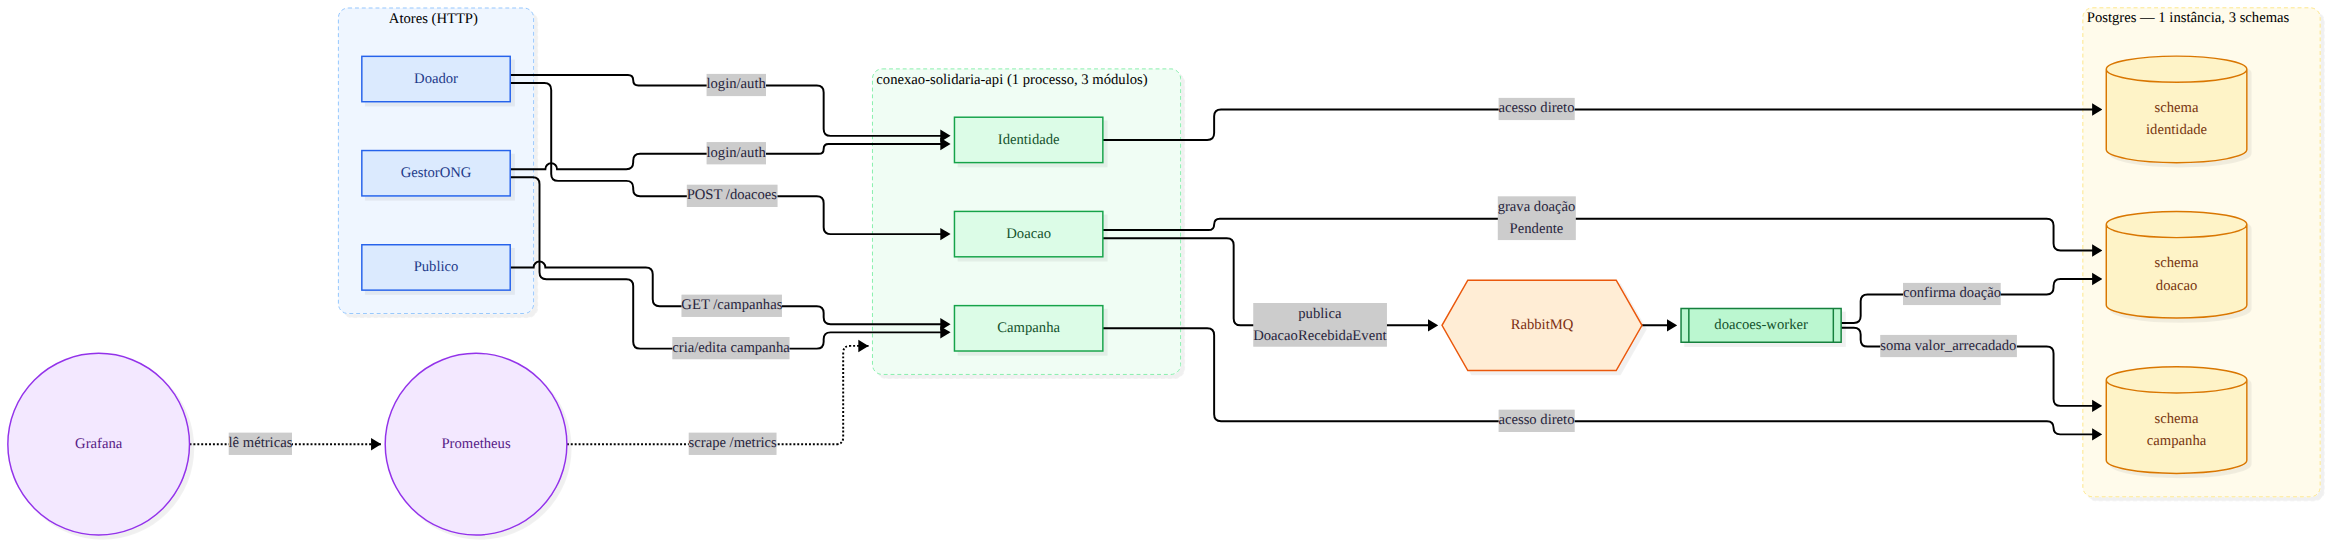
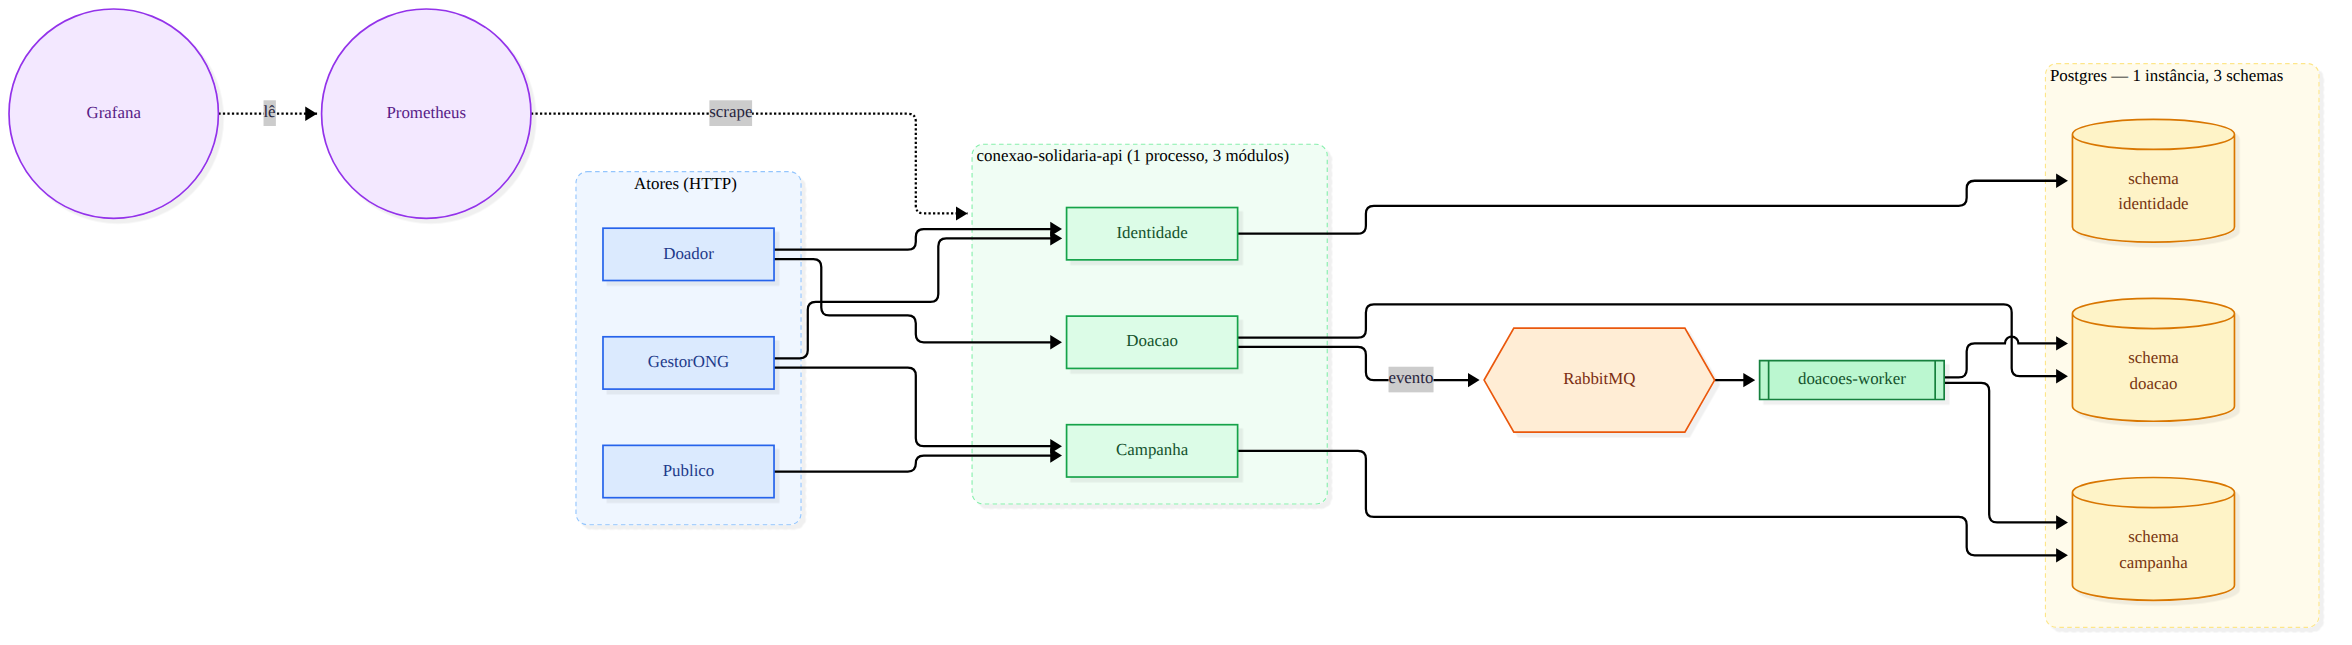
docs: simplifica rótulos das setas do diagrama de arquitetura
Depois de detalhar os módulos internos da API e os schemas do Postgres,
as setas ficaram com texto demais (login/auth, GET /campanhas, POST
/doacoes, grava doação Pendente, confirma doação, soma valor_arrecadado
etc.), poluindo a leitura visual do fluxo entre as caixas.

Removidos os rótulos onde a relação já é óbvia pelo nome das próprias
caixas (ator -> módulo, módulo -> schema); mantido só o que não é óbvio:
"evento" na seta que sai do módulo Doacao pro RabbitMQ, e "scrape"/"lê"
nas setas de observabilidade. Nenhuma caixa, seta ou agrupamento foi
removido, só o texto das setas.

Claude-Session: https://claude.ai/code/session_01RLMFnPQTacBVFhCbSG5afN

diff --git a/docs/conexao-solidaria/plano/d6-documentacao-final.md b/docs/conexao-solidaria/plano/d6-documentacao-final.md
@@ -193,6 +193,20 @@ CI) antes de encerrar.
       para narrar o novo nível de detalhe (ator→módulo específico, só
       Doacao publica evento, Worker mira nos schemas); duração estimada
       recontada (766 palavras, ~140 palavras/min → 5 a 6 minutos).
+- [x] Diagrama de arquitetura — simplificação dos rótulos das setas
+      (**Gabriel**, 2026-09-29): dono do projeto achou as ligações
+      detalhadas demais depois do detalhamento acima (`login/auth`,
+      `GET /campanhas`, `POST /doacoes`, `grava doação Pendente`,
+      `confirma doação`, `soma valor_arrecadado`, etc. em cada seta).
+      Removidos os rótulos onde a relação já é óbvia pelo nome das caixas
+      (ator → módulo, módulo → schema); mantido só o essencial pra entender
+      o fluxo que não é óbvio (`evento` na seta Doacao → RabbitMQ, `scrape`
+      e `lê` nas setas de observabilidade). Nenhuma caixa, seta ou
+      agrupamento foi removido — só os textos das setas. Reexportado para
+      `../entrega/diagrama-arquitetura.png`, conferido visualmente. O
+      roteiro do segmento 1 continua explicando os detalhes em voz (ex.:
+      `GET /campanhas`, `POST /doacoes`) mesmo não estando mais escritos no
+      diagrama.
 - [x] PDF de justificativa de banco de dados (**Gabriel**) — feito em
       2026-09-29, revisado no mesmo dia para caber em 1 página (a primeira
       versão, com 3 páginas, incluía "papel da fila" e "idempotência" —

diff --git a/docs/conexao-solidaria/ARQUITETURA.md b/docs/conexao-solidaria/ARQUITETURA.md
@@ -71,23 +71,23 @@ flowchart LR
     SchemaDoacao[("schema<br/>doacao")]
   end
 
-  Doador -->|"login/auth"| Identidade
-  GestorONG -->|"login/auth"| Identidade
-  GestorONG -->|"cria/edita campanha"| Campanha
-  Publico -->|"GET /campanhas"| Campanha
-  Doador -->|"POST /doacoes"| Doacao
+  Doador --> Identidade
+  GestorONG --> Identidade
+  GestorONG --> Campanha
+  Publico --> Campanha
+  Doador --> Doacao
 
-  Identidade -->|"acesso direto"| SchemaIdentidade
-  Campanha -->|"acesso direto"| SchemaCampanha
-  Doacao -->|"grava doação<br/>Pendente"| SchemaDoacao
+  Identidade --> SchemaIdentidade
+  Campanha --> SchemaCampanha
+  Doacao --> SchemaDoacao
 
-  Doacao -->|"publica<br/>DoacaoRecebidaEvent"| Fila{{RabbitMQ}}
+  Doacao -->|evento| Fila{{RabbitMQ}}
   Fila --> Worker[["doacoes-worker"]]
-  Worker -->|"confirma doação"| SchemaDoacao
-  Worker -->|"soma valor_arrecadado"| SchemaCampanha
+  Worker --> SchemaDoacao
+  Worker --> SchemaCampanha
 
-  Prometheus((Prometheus)) -.->|"scrape /metrics"| API
-  Grafana((Grafana)) -.->|"lê métricas"| Prometheus
+  Prometheus((Prometheus)) -.->|scrape| API
+  Grafana((Grafana)) -.->|lê| Prometheus
 
   classDef ator fill:#dbeafe,stroke:#2563eb,stroke-width:1.5px,color:#1e3a8a
   classDef modulo fill:#dcfce7,stroke:#16a34a,stroke-width:1.5px,color:#14532d
